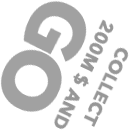
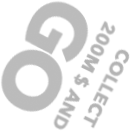
画像の配置しなおしとイベントの見せ方を調整

diff --git a/html/main.css b/html/main.css
@@ -1,1 +1,1 @@
-body{background-color:#333}.mainbox{display:block;margin:0 auto;text-align:center;width:1280px;height:720px;background-color:#333}.colbox{display:flex;width:1280px;height:180px;flex-direction:row}.middlebox{width:1280px;height:360px;margin:0;border:0}.videobox{float:left;width:640px;height:360px;margin:0;border:0;background-color:#000;background-image:url(/assets/top-main.png)}.middlesubbox{float:left;width:319px;height:360px}.squarebox{position:relative;width:312px;height:172px;margin:0;padding:0;background-color:#FFF;border:4px solid #333}.squareimg{margin-top:22px}.squareimg-side{margin-top:37px}.titlebox1{position:absolute;bottom:0;width:312px;height:40px;color:#FFF;background-color:#504277;border-top:6px solid #333;border-bottom:2px solid #333}.titlebox2{position:absolute;bottom:0;right:0;width:40px;height:172px;color:#FFF;background-color:#fff094;border-left:6px solid #333;border-right:2px solid #333;z-index:100}.titlebox3{position:absolute;bottom:0;width:40px;height:172px;color:#FFF;background-color:#428365;border-right:6px solid #333;border-left:2px solid #333}.eventbox{background-image:url(/assets/dummy.png);background-size:cover}.eventbox_info{color:#fff;font-size:12px;text-align:left;padding:10px;line-height:1.8;background-color:rgba(0,0,0,0.35);width:94%;position:absolute;bottom:0}.event_title,.event_place,.event_date{padding:0 10px}.event_title{text-overflow:ellipsis}.squarebox .text01{position:absolute;bottom:55px;left:50px}.squarebox .text02{position:absolute;top:4px;left:150px}.squarebox .text03{position:absolute;top:11px;left:60px}
+body{background-color:#333}.mainbox{display:block;margin:0 auto;text-align:center;width:1280px;height:720px;background-color:#333}.colbox{display:flex;width:1280px;height:180px;flex-direction:row}.middlebox{width:1280px;height:360px;margin:0;border:0}.videobox{float:left;width:640px;height:360px;margin:0;border:0;background-color:#000;background-image:url(/assets/top-main.png)}.middlesubbox{float:left;width:319px;height:360px}.squarebox{position:relative;width:312px;height:172px;margin:0;padding:0;background-color:#FFF;border:4px solid #333}.squareimg{position: relative;}.squareimg-side{position: relative}.titlebox1{position:absolute;bottom:0;width:312px;height:40px;color:#FFF;background-color:#504277;border-top:6px solid #333;border-bottom:2px solid #333}.titlebox2{position:absolute;bottom:0;right:0;width:40px;height:172px;color:#FFF;background-color:#fff094;border-left:6px solid #333;border-right:2px solid #333;z-index:100}.titlebox3{position:absolute;bottom:0;width:40px;height:172px;color:#FFF;background-color:#428365;border-right:6px solid #333;border-left:2px solid #333}.eventbox{background-image:url(/assets/dummy.png);background-size:cover}.eventbox_info{color:#fff;font-size:12px;text-align:left;padding:10px;line-height:1.8;background-color:rgba(0,0,0,0.35);width:92%;height: 89%;position:absolute;bottom:0}.eventbox_info a{color: #fff}.event_title,.event_place,.event_date{padding:5px 10px}.event_place{text-overflow:ellipsis;overflow: hidden;white-space: nowrap}.squarebox .text01{position:absolute;bottom:55px;left:50px}.squarebox .text02{position:absolute;top:18px;left:200px}.squarebox .text03{position:absolute;top:17px;left:60px}.icon01 {position: absolute;top: 30px;left: 110px}.icon03 {position: absolute;top: 26px;left: 50px}.icon04 {position: absolute;top: 15px;left: 120px}.icon05 {position: absolute;top: 35px;left: 60px}.icon06 {position: absolute;top: 24px;left: 50px}

diff --git a/html/BoardGameMania.html b/html/BoardGameMania.html
@@ -46,14 +46,14 @@
     <!-- End Google Tag Manager (noscript) -->
     <div class="mainbox">
   <div class="colbox">
-    <div class="squarebox"><img class="squareimg" src="./icon04.png" alt="Icon04"></div>
+    <div class="squarebox"><img class="squareimg icon04" src="./icon04.png" alt="Icon04"></div>
     <div class="squarebox"><img class="text01" src="./text01.png" alt="Text01"><div class="titlebox1">&nbsp;</div></div>
-    <div class="squarebox"><img class="squareimg" src="./icon01.png" alt="Icon01"></div>
-    <div class="squarebox"><img class="squareimg" src="./icon06.png" alt="Icon06"></div>
+    <div class="squarebox"><img class="squareimg icon01" src="./icon01.png" alt="Icon01"></div>
+    <div class="squarebox"><img class="squareimg icon06" src="./icon06.png" alt="Icon06"></div>
   </div>
   <div class="middlebox">
     <div class="middlesubbox">
-      <div class="squarebox"><img class="squareimg" src="./icon03.png" alt="Icon03"></div>
+		<div class="squarebox"><img class="squareimg icon03" src="./icon03.png" alt="Icon03"></div>
       <div class="squarebox"><img class="text02" src="./text02.png" alt="Text02"><div class="titlebox2">&nbsp;</div></div>
     </div>
     <div class="videobox">
@@ -61,7 +61,7 @@
     </div>
     <div class="middlesubbox">
       <div class="squarebox"><div class="titlebox3">&nbsp;</div><img class="text03" src="./text03.png" alt="Text03"></div>
-      <div class="squarebox"><img class="squareimg-side" src="./icon05.png" alt="Icon05"></div>
+      <div class="squarebox"><img class="squareimg-side icon05" src="./icon05.png" alt="Icon05"></div>
     </div>
   </div>
   <div class="colbox">
